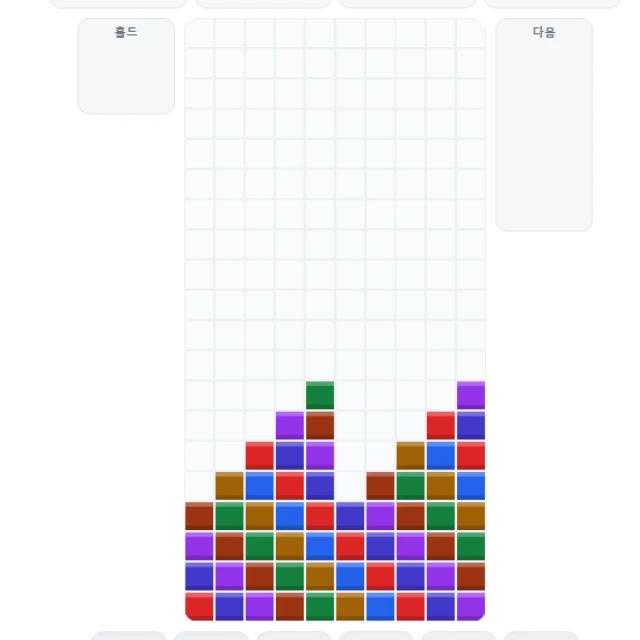
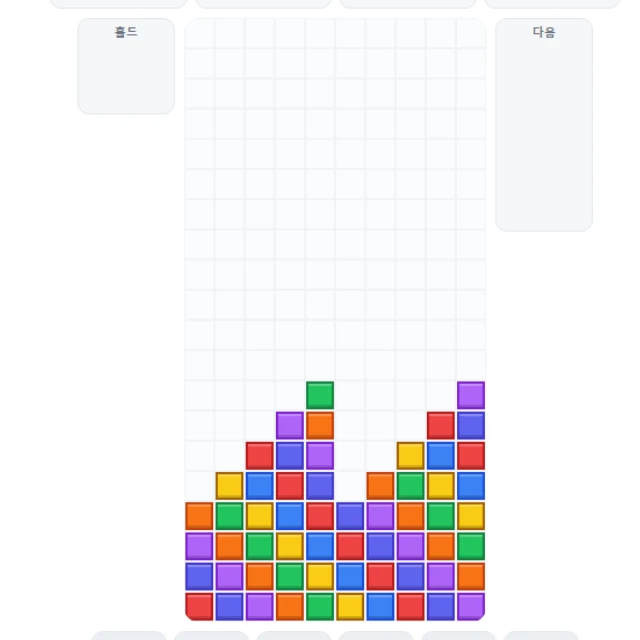
chore(thumbs): recapture the four thumbnails on the vivid palette; sw cache v16
- the three game thumbnails now show the bright rainbow with its darker edges
- the puzzle capture seeds the random stream and keeps pieces inside the top-left
  9x9, so the measuring run and the screenshot run land on the same board and no
  line can complete (a clearing flash was ending up in the picture)
- each thumbnail is checked from the image itself: the board grid is located in
  the picture and all 100 cells are sampled, so borders and gloss no longer skew
  the count the way an area estimate did
- thumbnails are precached, so the service worker cache goes v15 -> v16

Claude-Session: https://claude.ai/code/session_01FbAe4C9PVgaCBsNubpLJgt

Changed region(s): [[0.2812, 0.5938, 0.7812, 0.9688]]

diff --git a/sw.js b/sw.js
@@ -4,7 +4,7 @@
  * ★캐시 버전: 파일을 추가/변경하면 CACHE 문자열을 올려라(구버전은 activate 에서 삭제된다).
  *   DEPLOY.md '게임 추가 절차' 체크리스트 참조.
  */
-const CACHE = 'hanpango-v15';
+const CACHE = 'hanpango-v16';
 
 /* 사이트 총량 ~100KB(정적) — 전량 프리캐시한다.
  * 디렉터리 형태(/block-puzzle/)와 파일 형태(/block-puzzle/index.html)를 둘 다 넣는 것은
